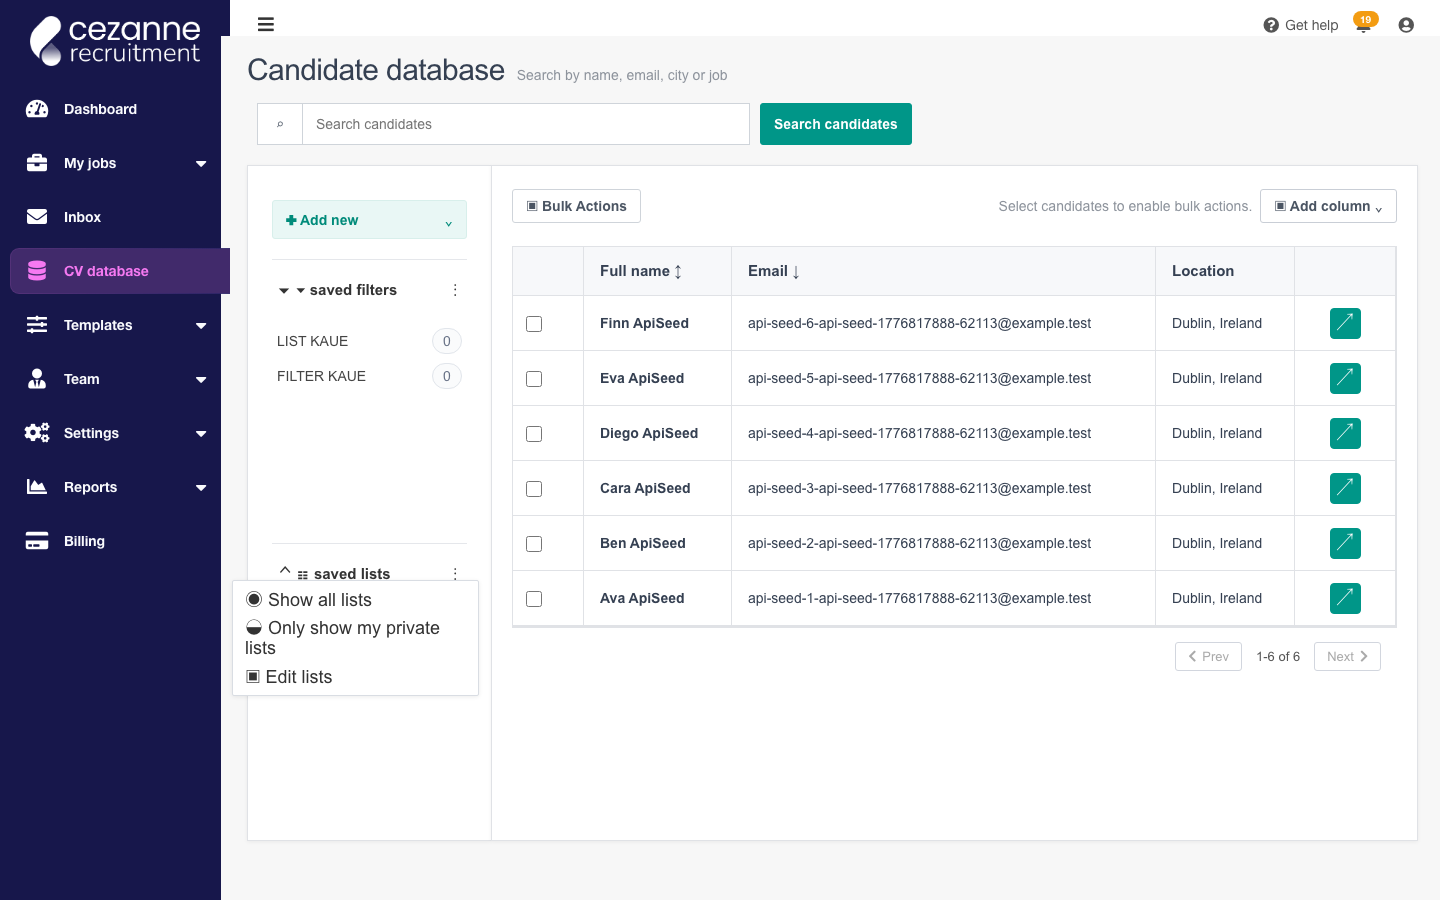
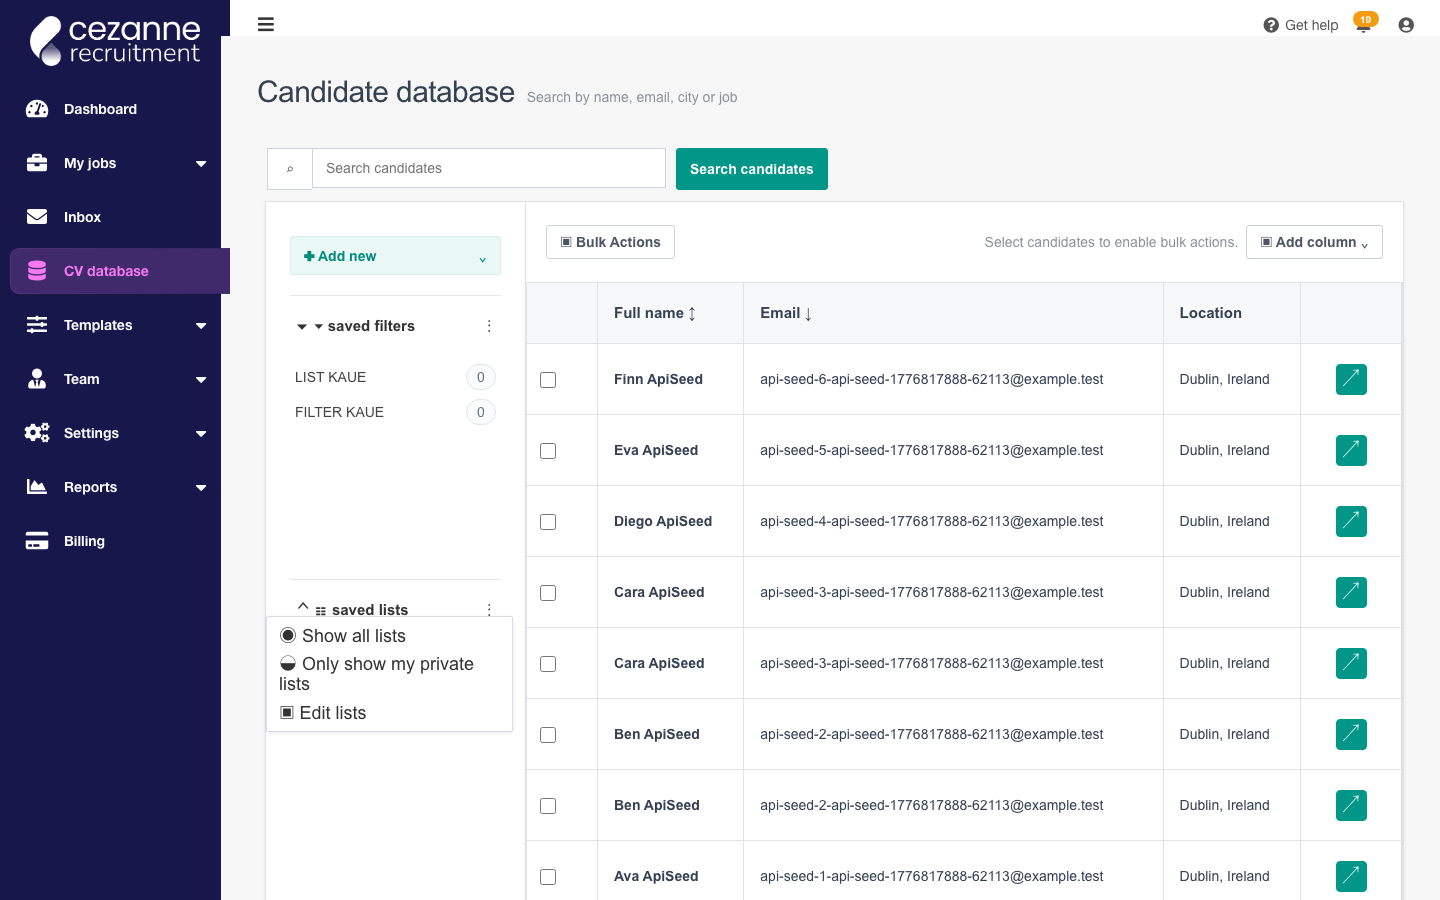
refactor: update candidate task job summary padding and clarify visual contract documentation

diff --git a/src/domains/candidates/candidate-composition.css b/src/domains/candidates/candidate-composition.css
@@ -124,7 +124,7 @@
 .candidate-db-search-row {
   display: flex;
   gap: 10px;
-  margin: 0 0 20px 10px;
+  margin: 0 0 11px 10px;
 }
 
 .candidate-db-search-icon {
@@ -140,7 +140,8 @@
 }
 
 .candidate-db-search-input {
-  width: 420px;
+  box-sizing: border-box;
+  width: 354px;
   height: 40px;
   margin-left: -10px;
   border: 1px solid #cfd4da;
@@ -157,15 +158,16 @@
 }
 
 .candidate-database-page {
-  padding: 24px 26px 32px;
+  padding: 46px 40px 32px 36px;
 }
 
 .candidate-database-page .candidate-product-hero {
-  margin-bottom: 18px;
+  margin-bottom: 41px;
 }
 
 .candidate-database-page .candidate-product-layout {
-  grid-template-columns: 244px minmax(0, 1fr);
+  grid-template-columns: 260px minmax(0, 1fr);
+  margin-left: 8px;
 }
 
 .candidate-db-sidebar {
@@ -253,6 +255,8 @@
 }
 
 .candidate-db-table-wrap {
+  margin-right: -20px;
+  margin-left: -20px;
   border: 1px solid #e0e2e6;
   overflow: hidden;
 }
@@ -266,7 +270,7 @@
 .candidate-product-table th,
 .candidate-product-table td {
   padding: 0 16px;
-  height: 54px;
+  height: 70px;
   border-bottom: 1px solid #e0e2e6;
   border-right: 1px solid #e0e2e6;
   text-align: left;
@@ -278,7 +282,7 @@
   color: #354052;
   font-size: 15px;
   font-weight: 600;
-  height: 48px;
+  height: 60px;
 }
 
 .candidate-product-table th:first-child,
@@ -526,6 +530,10 @@
   .candidate-db-main,
   .candidate-profile-card {
     min-height: auto;
+  }
+
+  .candidate-database-page .candidate-product-layout {
+    margin-left: 0;
   }
 }
 
@@ -1584,7 +1592,7 @@
 }
 
 .candidate-profile-identity {
-  min-height: 108px;
+  min-height: 87px;
   padding-top: 28px;
 }
 
@@ -1792,7 +1800,7 @@
 
 .candidate-flow-line {
   justify-content: flex-end;
-  margin: 9px 20px 17px 0;
+  margin: 9px 20px 47px 0;
   color: #999;
   font-size: 13px;
 }

diff --git a/docs/visual-evidence-v2-candidates-gap-register-2026-04-22.md b/docs/visual-evidence-v2-candidates-gap-register-2026-04-22.md
@@ -164,6 +164,10 @@ Confirmed change:
 - Candidate database row density and sidebar spacing were compacted toward the legacy layout.
 - Candidate detail now exposes legacy-style modal entry points for Email candidate, Send to hiring manager, Move job, and Score now. These are composition/parity starters only; they do not claim backend mutation parity.
 - A second action-composition pass moved schedule closer to the legacy wizard with dark header, job detail column, first-step interview fields, and radio groups; moved reject closer to the legacy two-step template/message editor; and moved email closer to the legacy template/editor/attachment surface.
+- A database geometry pass moved the ready frame's title/search/table vertical rhythm closer to the legacy ready baseline.
+- A follow-up database geometry pass updated the recapture seed to the legacy-style 8-row set and aligned the database card, sidebar/table split, and table edge geometry closer to the legacy ready baseline.
+- A database table pass aligned the search input/button sizing and expanded header/body row heights so the 8-row ready capture fills the viewport like the legacy baseline.
+- A detail geometry pass aligned the card/notes vertical stack and increased the hiring-flow-to-tabs spacing so the tabs/CV preview begin closer to the legacy detail baseline without moving the shell into the navigation rail.
 - The R0 Playwright smoke harness now seeds the current `recruit.localAuthSession` contract and mocks candidate `/v2/cv` + GraphQL reads for deterministic database/detail handoff validation.
 
 Validation run:
@@ -198,9 +202,9 @@ The recapture harness was tightened after the first run so the covered current-a
 | V2-GAP-005 | Improved; still blocked | Saved filter entries and kebab menu captured in `new/03-database-saved-filter-menu-density-pass.png`; legacy title casing/geometry review still required. |
 | V2-GAP-006 | Improved; still blocked | Saved list entries and kebab menu captured in `new/04-database-saved-list-menu-density-pass.png`; legacy spacing/position review still required. |
 | V2-GAP-008 | Improved; still blocked | Selected-row bulk toolbar captured in `new/05-database-row-selected-bulk-enabled.png`; legacy bulk menu contents and geometry still need comparison. |
-| V2-GAP-010 | Improved; still blocked | Database ready density pass captured in `new/01-database-ready-density-pass.png`; API-seed rows are now comparable, but table density/geometry still differs from legacy. |
+| V2-GAP-010 | Improved; still blocked | Database ready density pass captured in `new/01-database-ready-density-pass.png`; API-seed rows, 8-row viewport cadence, title/search/table rhythm, search sizing, card edge, sidebar/table split, row heights, and table edge geometry are now closer, but exact column, icon, and menu geometry still differ from legacy. |
 | V2-GAP-015 | Partially improved; still blocked | Covered ready/action captures now use Finn/Diego ApiSeed-style data, but there is still no same-run authenticated legacy recapture and full state/data coverage is incomplete. |
-| V2-GAP-016 | Improved; still blocked | Detail ready state captured in `new/10-detail-ready-after-parity-pass.png`; side-card geometry, wrapping, and proportions still differ from legacy. |
+| V2-GAP-016 | Improved; still blocked | Detail ready state captured in `new/10-detail-ready-after-parity-pass.png`; card/notes vertical stack and tab/CV start are closer, but lateral shell width, email wrapping, and exact profile-card proportions still differ from legacy. |
 | V2-GAP-026 | Improved; still blocked | Email modal captured in `new/12-detail-email-candidate-modal.png`; template/editor/attachment composition now exists, but exact legacy composer parity still requires comparison. |
 | V2-GAP-027 | Improved; still blocked | Send to hiring manager modal captured in `new/13-detail-send-to-hiring-manager-modal.png`; backend mutation and exact field parity remain deferred. |
 | V2-GAP-028 | Improved; still blocked | Move job modal captured in `new/14-detail-move-job-modal.png`; exact legacy search/list behaviour remains deferred. |
@@ -219,8 +223,8 @@ No gap is marked resolved yet. The recapture closes part of the **evidence-quali
 | Gap cluster | Review result | Remaining blocker |
 |---|---|---|
 | V2-GAP-004 to V2-GAP-008 | Improved; still blocked | Add new, saved list/filter, and bulk toolbar states exist with comparable data, but menu offsets, icon treatment, row heights, toolbar copy/spacing, and selected-state geometry still differ from legacy. |
-| V2-GAP-010 to V2-GAP-012 | Improved; still blocked | API-seed rows now appear, but table width, row density, column sizing, pagination placement, and stage/status column decisions still do not match the legacy database baseline. |
-| V2-GAP-014 to V2-GAP-021 | Improved; still blocked | Job-context detail and Finn ApiSeed data are closer, but profile-card width, email wrapping, stage selector placement, hiring-flow dot/line geometry, tabs, CV preview proportions, and notes/action area placement still differ. |
+| V2-GAP-010 to V2-GAP-012 | Improved; still blocked | API-seed rows now appear, 8-row viewport cadence matches the legacy baseline, search/table/card geometry is closer, and pagination no longer appears in the primary ready viewport, but exact column sizing, menu/icon treatment, and stage/status column decisions still do not match the legacy database baseline. |
+| V2-GAP-014 to V2-GAP-021 | Improved; still blocked | Job-context detail and Finn ApiSeed data are closer, card/notes vertical stack improved, and tabs/CV start closer to legacy, but lateral shell width, email wrapping, exact stage selector placement, hiring-flow dot/line details, CV preview proportions, and action-area treatment still differ. |
 | V2-GAP-024 | Improved; still blocked | Schedule now matches more of the wizard structure, but exact modal dimensions, stepper/header placement, job metadata, copy, and footer mechanics still differ from legacy. |
 | V2-GAP-025 | Improved; still blocked | Reject now includes the two-step message/editor flow, but exact modal width/position, editor toolbar, chip layout, and reject-with/without-message footer actions still differ. |
 | V2-GAP-026 | Improved; still blocked | Email now uses a template/editor/attachment modal surface, but legacy evidence still differs in context, toolbar details, footer actions, draft/send behavior, and exact sizing. |

diff --git a/docs/visual-evidence-v2-candidates-recapture-2026-04-22-parity-pass.md b/docs/visual-evidence-v2-candidates-recapture-2026-04-22-parity-pass.md
@@ -53,6 +53,10 @@ Confirmed:
 - The candidate detail More actions menu now exposes the legacy-modal action entries.
 - Schedule, offer, and reject task routes now preserve route ownership while rendering modal-like composition over candidate context.
 - Schedule and reject received a second composition pass toward legacy: schedule now has the dark wizard header, job detail column, interview-type/location fields, and radio groups; reject now has the two-step header plus template/message editor surface. Email candidate now uses a template/editor/attachment-style modal surface rather than the earlier simple form.
+- The database ready frame received a vertical geometry pass so the page title/search row/table container align more closely to the legacy ready baseline.
+- The database recapture now uses the legacy-style 8-row API-seed cadence and has closer card edge, sidebar/table split, and table edge geometry.
+- The database search input/button sizing and table row heights now place the primary ready viewport closer to `legacy/01-database-ready-viewport.png`, including hiding pagination below the captured fold.
+- The detail ready capture now has a closer profile-card/notes vertical stack and tabs/CV start position, without shifting the page into the navigation rail.
 
 Still not claimed:
 - Pixel parity with legacy.
@@ -66,9 +70,9 @@ Compared against the existing authenticated legacy references in `docs/visual-ev
 
 | Area | Result | Basis |
 |---|---|---|
-| Database ready | Improved; still blocked | API-seed names/emails now match the legacy style and row count is closer, but table/card width, column widths, top spacing, pagination placement, and row density still differ from `legacy/01-database-ready-viewport.png`. |
+| Database ready | Improved; still blocked | API-seed names/emails now match the legacy style, the ready capture shows the legacy-style 8-row cadence, search/table/card geometry is closer, and pagination no longer appears in the primary viewport. Exact column widths, icon treatment, menu offsets, and remaining toolbar spacing still differ from `legacy/01-database-ready-viewport.png`. |
 | Database menus and bulk toolbar | Improved; still blocked | Add new and selected-row bulk states now exist with comparable data, but menu icon treatment, row heights, dropdown width/offset, and toolbar copy/spacing still differ from `legacy/05-add-new-menu-opened.png` and `legacy/11-bulk-actions-after-first-row-selected.png`. |
-| Candidate detail ready | Improved; still blocked | Finn ApiSeed now aligns with the main detail legacy candidate, but profile-card width, email wrapping, hiring-flow geometry, tab/CV proportions, notes placement, and exact stage control still differ from `legacy/20-candidate-detail-ready-viewport.png`. |
+| Candidate detail ready | Improved; still blocked | Finn ApiSeed now aligns with the main detail legacy candidate, and card/notes vertical stack plus tab/CV start are closer. Lateral shell width, email wrapping, exact profile-card details, hiring-flow geometry, CV preview proportions, and exact stage control still differ from `legacy/20-candidate-detail-ready-viewport.png`. |
 | More actions | Improved; still blocked | Diego ApiSeed now aligns with the supplement candidate, and missing actions are visible, but the menu contents/height differ from `legacy/22-candidate-detail-more-actions-opened.png` and the supplement action references. |
 | Email candidate | Improved; still blocked | Greenfield now has template, Bcc chip, subject, editor toolbar, attachment control, and message body in a centered modal. Legacy evidence still differs in route/tab context, exact editor toolbar, footer actions, and send/draft affordances. |
 | Schedule interview | Improved; still blocked | Greenfield now has a wider wizard, dark header, candidate/job detail split, interview type/location fields, and radio groups. Exact legacy modal height, stepper placement, copy, job metadata, and next-step footer remain different. |
@@ -88,8 +92,8 @@ Compared against the existing authenticated legacy references in `docs/visual-ev
 ## Next Required Step
 
 Continue implementation from the remaining largest blockers:
-- database shell/table geometry and menu offsets;
-- candidate detail profile-card, hiring-flow, and CV/tab proportions;
+- database menu offsets, icon treatment, column sizing, and bulk toolbar details;
+- candidate detail lateral shell width, profile-card details, hiring-flow dot/line treatment, and CV/tab proportions;
 - exact legacy action flow composition for email, schedule, reject, review request, move job, upload CV, and score-now, especially footer actions, editor controls, field payloads, and wizard dimensions.
 
 Only after those changes are recaptured against authenticated legacy references may individual gaps be marked resolved. Until then, V2 Candidates remains parity-blocked.

diff --git a/docs/roadmap.md b/docs/roadmap.md
@@ -80,7 +80,7 @@ R3 implementation status (confirmed in code): the public/token route family now 
 
 R5 implementation status (confirmed in code/docs): platform master data, platform users/favorite-request queue, taxonomy, requisition authoring, API endpoints settings, `/parameters` compatibility, and requisition forms/download are implemented and validated. Generic integration tokenized entries were reconciled as already covered by R3 token-entry routes.
 
-V1-V5 review update (2026-04-22): V1, V3, and V4 are closed for current screen-flow handoff bases; V5 is foundation-complete but not final Figma-ready for non-ready/mutation/depth states; V2 is behaviour-covered but remains legacy-parity blocked. Product direction for V2 Candidates is full parity: no database/detail/action-flow deviation is accepted unless a future product decision explicitly records the exception and gap id. The first parity pass has improved V2 database density/saved lists, candidate action modal composition, candidate detail legacy modal entry points, recapture seed parity for Finn/Diego/API-seed-style evidence, and schedule/reject/email editor-style action composition, with `npm test`, `npm run build`, and `npm run smoke:r0:ui` green.
+V1-V5 review update (2026-04-22): V1, V3, and V4 are closed for current screen-flow handoff bases; V5 is foundation-complete but not final Figma-ready for non-ready/mutation/depth states; V2 is behaviour-covered but remains legacy-parity blocked. Product direction for V2 Candidates is full parity: no database/detail/action-flow deviation is accepted unless a future product decision explicitly records the exception and gap id. The first parity pass has improved V2 database density/saved lists, candidate action modal composition, candidate detail legacy modal entry points, recapture seed parity for Finn/Diego/API-seed-style evidence, schedule/reject/email editor-style action composition, database ready-frame vertical rhythm, search sizing, database 8-row/card/table geometry, and detail card/tab vertical proportions, with `npm test`, `npm run build`, and `npm run smoke:r0:ui` green.
 
 ### Why this slicing (and not the original Waves)
 

diff --git a/docs/v2-candidates-visual-contract.md b/docs/v2-candidates-visual-contract.md
@@ -121,4 +121,4 @@ Candidate database, detail, and action launcher screens must match the authentic
 
 Product decision on 2026-04-22: **all replacement surfaces require legacy pixel parity wherever a legacy screen/state exists**. No visual or behavioural deviation is accepted unless a future product decision explicitly records the exception and the affected route/family/gap id.
 
-Implementation update on 2026-04-22: the first parity pass improved database saved-filter/list density, action task modal composition, candidate detail legacy action modal entry points, and recapture seed parity for Finn/Diego/API-seed-style screenshots. A follow-up action-composition pass moved schedule toward the legacy wizard and moved reject/email toward legacy template/editor surfaces. Validation is green (`npm test`, `npm run build`, `npm run smoke:r0:ui`), but these changes remain behaviour evidence only until side-by-side legacy recapture confirms visual parity. The latest side-by-side review still blocks V2 on database geometry, detail proportions, and exact legacy action modal/editor composition.
+Implementation update on 2026-04-22: the first parity pass improved database saved-filter/list density, action task modal composition, candidate detail legacy action modal entry points, and recapture seed parity for Finn/Diego/API-seed-style screenshots. Follow-up passes moved schedule toward the legacy wizard, moved reject/email toward legacy template/editor surfaces, aligned the database ready frame's vertical rhythm and search sizing closer to legacy, brought the database ready capture to the legacy-style 8-row/card/table geometry with pagination below the primary viewport, and improved detail card/tabs/CV vertical proportions. Validation is green (`npm test`, `npm run build`, `npm run smoke:r0:ui`), but these changes remain behaviour evidence only until side-by-side legacy recapture confirms visual parity. The latest side-by-side review still blocks V2 on remaining database menu/icon/column details, detail lateral shell/proportion differences, and exact legacy action modal/editor composition.
